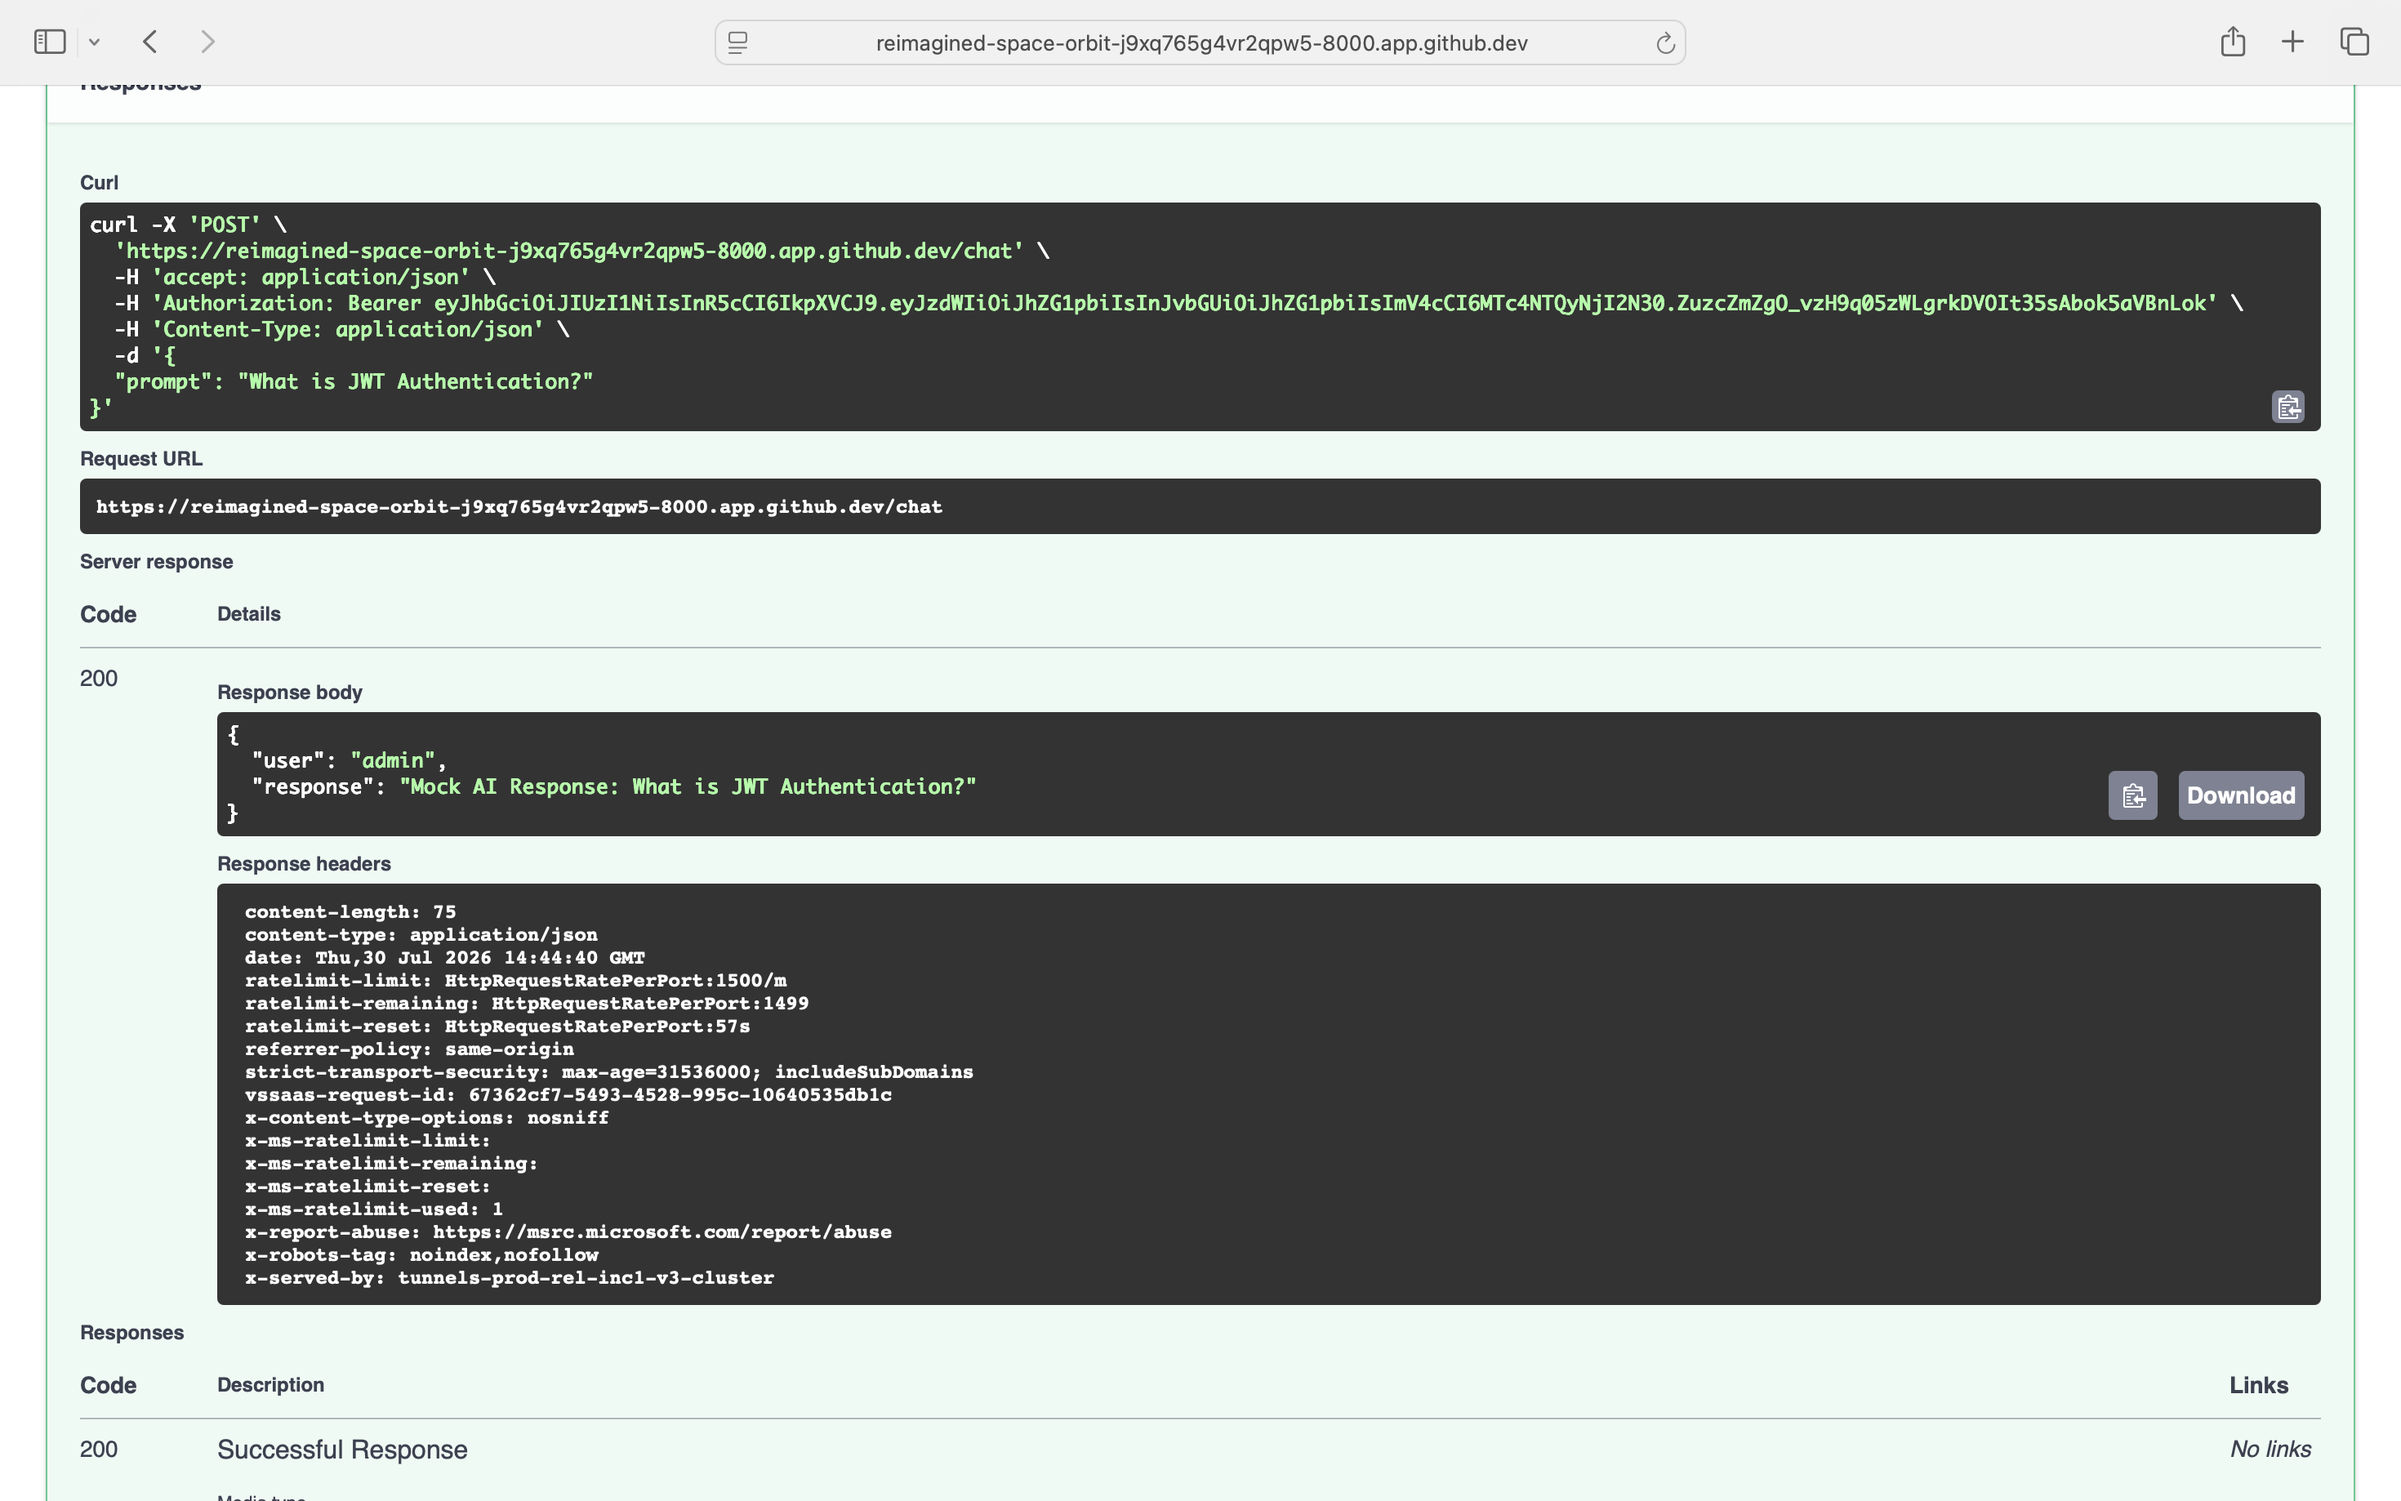
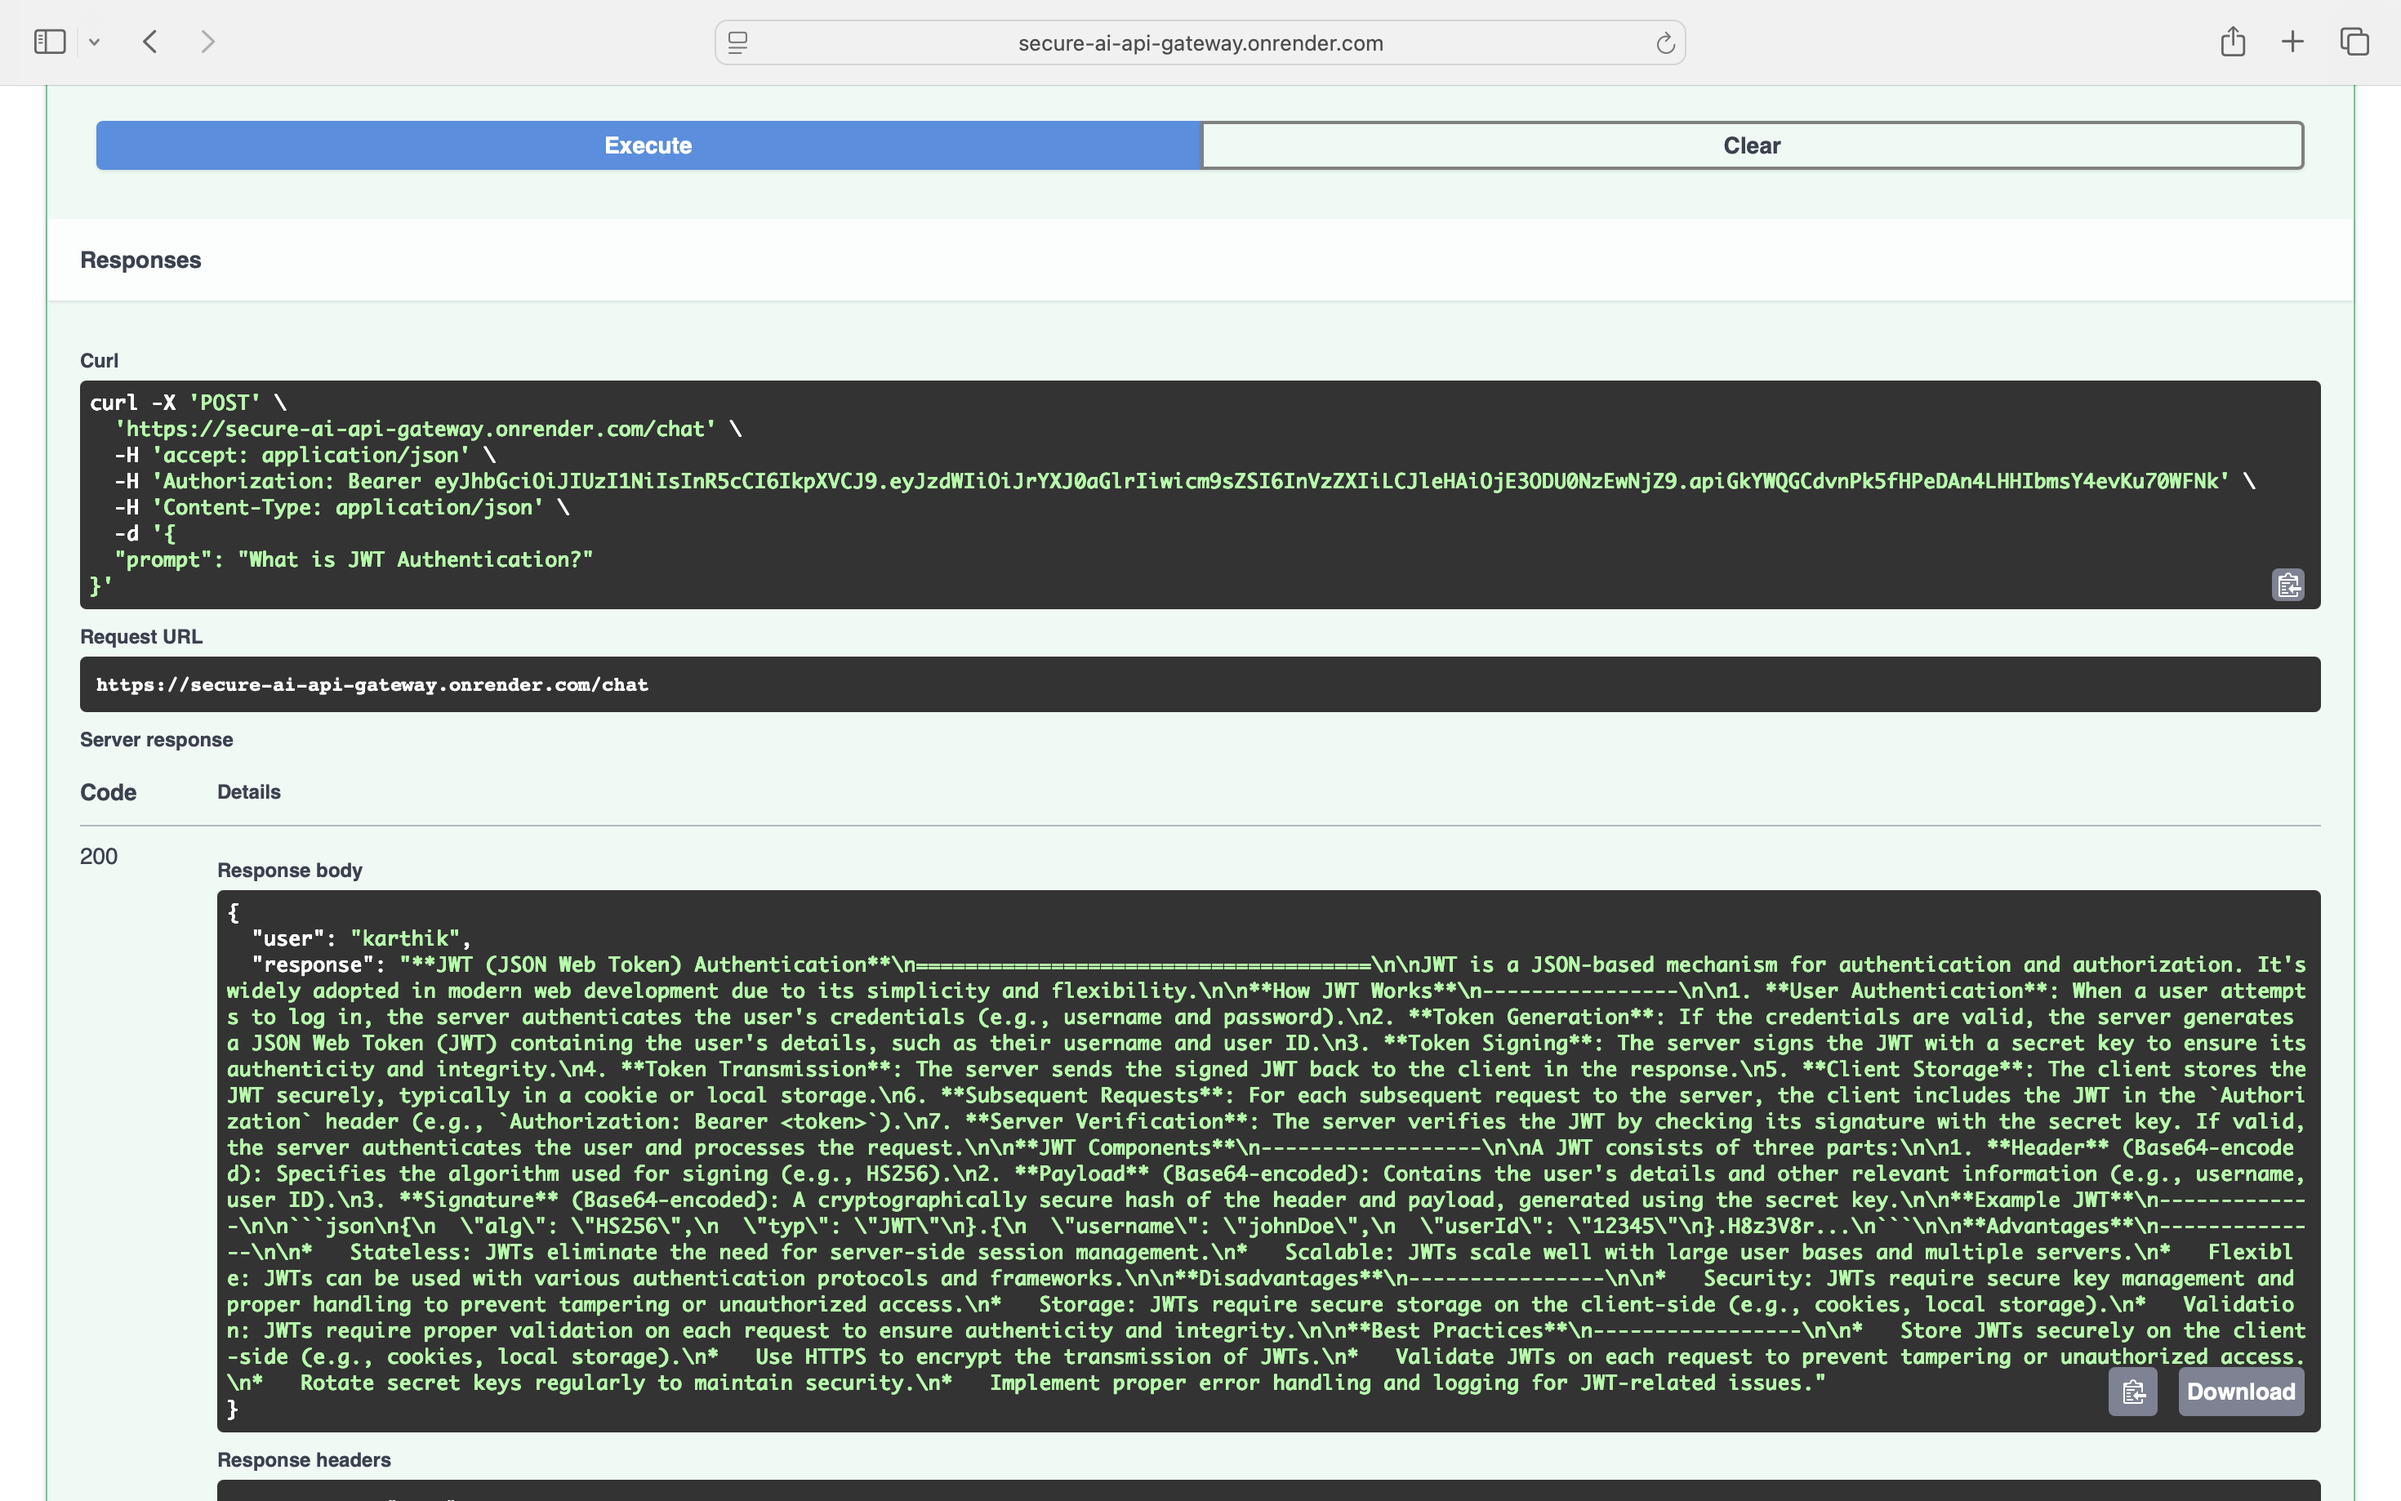
Complete Secure AI API Gateway

diff --git a/README.md b/README.md
@@ -1,6 +1,6 @@
 # 🔐 Secure AI API Gateway
 
-A production-ready AI API Gateway built with **FastAPI** that secures AI interactions using JWT authentication, Role-Based Access Control (RBAC), prompt injection detection, audit logging, and rate limiting.
+A production-ready AI API Gateway built with **FastAPI** that secures AI interactions using JWT Authentication, Role-Based Access Control (RBAC), Prompt Injection Detection, Audit Logging, Rate Limiting, and AI-powered responses using **Groq Llama 3.1**.
 
 ---
 
@@ -11,6 +11,7 @@ A production-ready AI API Gateway built with **FastAPI** that secures AI interac
 | 🚀 Live API | https://secure-ai-api-gateway.onrender.com |
 | 📖 Swagger UI | https://secure-ai-api-gateway.onrender.com/docs |
 | 📚 ReDoc | https://secure-ai-api-gateway.onrender.com/redoc |
+| ❤ Health Check | https://secure-ai-api-gateway.onrender.com/health |
 
 ---
 
@@ -22,11 +23,12 @@ A production-ready AI API Gateway built with **FastAPI** that secures AI interac
 - 🔒 Password Hashing with bcrypt
 - 🔄 Password Reset
 - 🛡 Protected API Endpoints
-- 🤖 AI Chat Endpoint
+- 🤖 AI Chat using Groq Llama 3.1
 - 🚨 Prompt Injection Detection
 - 📝 Audit Logging
 - ⏱ Rate Limiting
 - 📖 Interactive Swagger Documentation
+- ☁ Live Deployment on Render
 - ✅ Unit Testing with Pytest
 
 ---
@@ -42,7 +44,8 @@ A production-ready AI API Gateway built with **FastAPI** that secures AI interac
 | Authentication | JWT |
 | Password Security | bcrypt + Passlib |
 | Validation | Pydantic |
-| API Docs | Swagger/OpenAPI |
+| AI | Groq (Llama 3.1) |
+| API Documentation | Swagger / OpenAPI |
 | Testing | Pytest |
 | Rate Limiting | SlowAPI |
 | Deployment | Render |
@@ -72,9 +75,9 @@ secure-ai-api-gateway/
 │   ├── test_chat.py
 │   └── test_profile.py
 │
+├── screenshots/
 ├── requirements.txt
-├── README.md
-└── screenshots/
+└── README.md
 ```
 
 ---
@@ -82,22 +85,20 @@ secure-ai-api-gateway/
 # 🏗 Architecture
 
 ```text
-                 Client
-                    │
-                    ▼
-          FastAPI Application
-                    │
-        JWT Authentication
-                    │
-      Role-Based Access Control
-                    │
+                    Client
+                       │
+                       ▼
+             FastAPI Application
+                       │
+        JWT Authentication & RBAC
+                       │
       Prompt Injection Detection
-                    │
-            AI Chat Endpoint
-                    │
-            Audit Logging
-                    │
-            SQLite Database
+                       │
+             AI Gateway (Groq)
+                       │
+              Audit Logging
+                       │
+              SQLite Database
 ```
 
 ---
@@ -112,13 +113,13 @@ git clone https://github.com/Karthikeya172001/secure-ai-api-gateway.git
 cd secure-ai-api-gateway
 ```
 
-Create virtual environment:
+Create a virtual environment:
 
 ```bash
 python -m venv .venv
 ```
 
-Activate:
+Activate it.
 
 ### Windows
 
@@ -138,6 +139,13 @@ Install dependencies:
 pip install -r requirements.txt
 ```
 
+Create a `.env` file:
+
+```env
+SECRET_KEY=your_secret_key
+GROQ_API_KEY=your_groq_api_key
+```
+
 Run the application:
 
 ```bash
@@ -148,7 +156,7 @@ uvicorn app.main:app --reload
 
 # ☁ Deployment
 
-This application is deployed on **Render**.
+This project is deployed on **Render**.
 
 **Live URL**
 
@@ -158,11 +166,11 @@ https://secure-ai-api-gateway.onrender.com
 
 # 📖 API Documentation
 
-Swagger UI
+**Swagger UI**
 
 https://secure-ai-api-gateway.onrender.com/docs
 
-ReDoc
+**ReDoc**
 
 https://secure-ai-api-gateway.onrender.com/redoc
 
@@ -178,18 +186,14 @@ https://secure-ai-api-gateway.onrender.com/redoc
 | POST | /login | Login and receive JWT |
 | PUT | /reset-password | Reset password |
 
----
-
-## Protected
+### Protected
 
 | Method | Endpoint | Description |
 |---------|----------|-------------|
 | GET | /profile | Get authenticated user profile |
 | POST | /chat | AI Chat Endpoint |
 
----
-
-## Admin
+### Admin
 
 | Method | Endpoint | Description |
 |---------|----------|-------------|
@@ -205,6 +209,29 @@ https://secure-ai-api-gateway.onrender.com/redoc
 - ✅ Prompt Injection Detection
 - ✅ Audit Logging
 - ✅ Rate Limiting
+
+---
+
+# 🤖 AI Integration
+
+This project integrates with **Groq's OpenAI-compatible API** using the **Llama 3.1** model to generate AI-powered responses.
+
+### Example Request
+
+```json
+{
+  "prompt": "What is JWT Authentication?"
+}
+```
+
+### Example Response
+
+```json
+{
+  "user": "karthik",
+  "response": "JWT (JSON Web Token) is a secure method for transmitting information between parties..."
+}
+```
 
 ---
 
@@ -238,19 +265,19 @@ Expected output:
 
 ## 🔑 User Login
 
-![Login Success](screenshots/login-success.png)
+![Login](screenshots/login-success.png)
 
 ---
 
-## 👤 Protected Profile Endpoint
+## 👤 Protected Profile
 
-![Profile Endpoint](screenshots/profile-endpoint.png)
+![Profile](screenshots/profile-endpoint.png)
 
 ---
 
-## 🤖 AI Chat Endpoint
+## 🤖 AI Chat
 
-![Chat Endpoint](screenshots/chat-endpoint.png)
+![Chat](screenshots/chat-endpoint.png)
 
 ---
 
@@ -269,24 +296,29 @@ Expected output:
 # 🚀 Future Enhancements
 
 - Refresh Tokens
-- Email-based Password Reset
+- Email Verification
 - Docker Support
 - CI/CD using GitHub Actions
 - PostgreSQL Support
+- Redis Caching
+- API Key Management
 - AI Risk Scoring
 - PII Detection
-- API Key Management
 
 ---
 
 # 👨💻 Author
 
-**Gorityala Karthikeya**
+## Gorityala Karthikeya
 
-Software Engineer | Backend Developer | Python | FastAPI
+Software Engineer | Backend Developer | Python | FastAPI | AI
 
-- GitHub: https://github.com/Karthikeya172001
-- LinkedIn: https://www.linkedin.com/in/YOUR-LINKEDIN/
+### 🔗 Connect with Me
+
+- 💻 **GitHub:** https://github.com/Karthikeya172001
+- 💼 **LinkedIn:** https://www.linkedin.com/in/karthikeya-gorityala/
+- 🚀 **Live Demo:** https://secure-ai-api-gateway.onrender.com
+- 📖 **Swagger UI:** https://secure-ai-api-gateway.onrender.com/docs
 
 ---
 
@@ -296,4 +328,6 @@ This project is licensed under the MIT License.
 
 ---
 
-## ⭐ If you found this project useful, please consider giving it a star!
+## ⭐ Support
+
+If you found this project useful, please consider giving it a ⭐ on GitHub.
